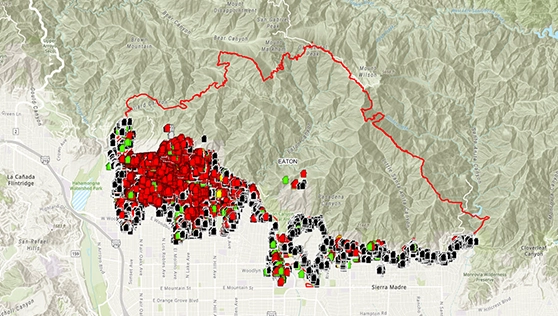
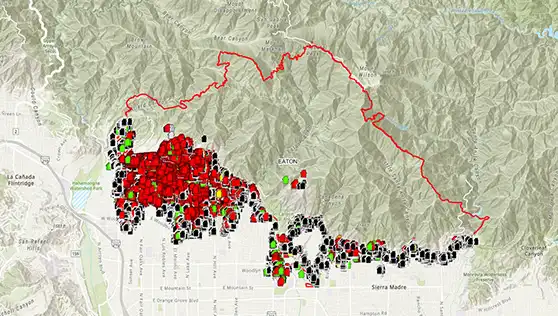
image hash

diff --git a/pages/initiatives/lafires/index.html b/pages/initiatives/lafires/index.html
@@ -101,7 +101,7 @@ category3: Public Safety
           class="no-underline d-block bg-white  brd-solid-1 brd-gray-200 rounded-10 p-b">
           <img
             class="img-fluid rounded-4 w-100"
-            src="/images/fire-palisades.jpg.webp?v2"
+            src="/images/fire-palisades.jpg.webp?v2wefgv"
             style="aspect-ratio:558/316"
             alt="Palisades fire map" />
           <div class="p-a-md">
@@ -122,7 +122,7 @@ category3: Public Safety
           class="no-underline d-block bg-white brd-solid-1 brd-gray-200 rounded-10 p-b">
           <img
             class="img-fluid rounded-4 w-100"
-            src="/images/fire-eaton.jpg.webp?v2"
+            src="/images/fire-eaton.jpg.webp?v2wefgv"
             style="aspect-ratio:558/316"
             alt="Eaton fire map" />
           <div class="p-a-md">
